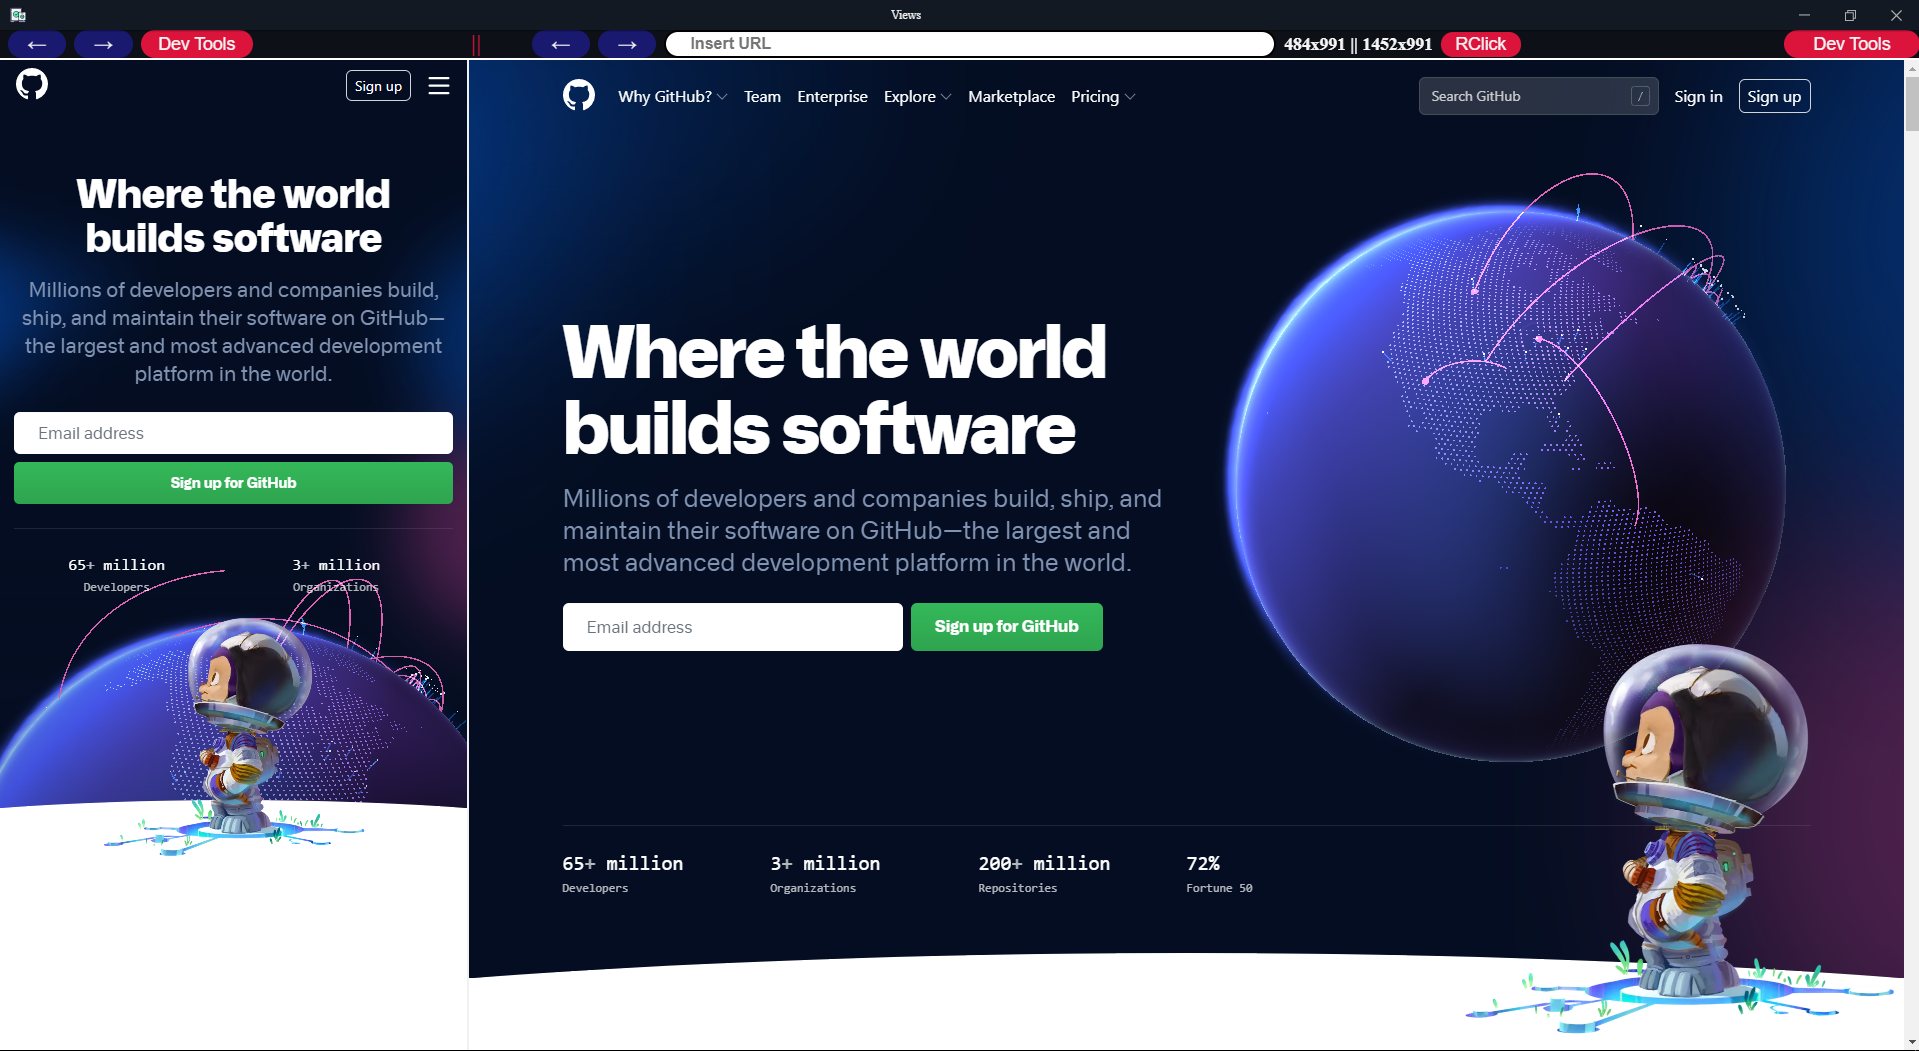
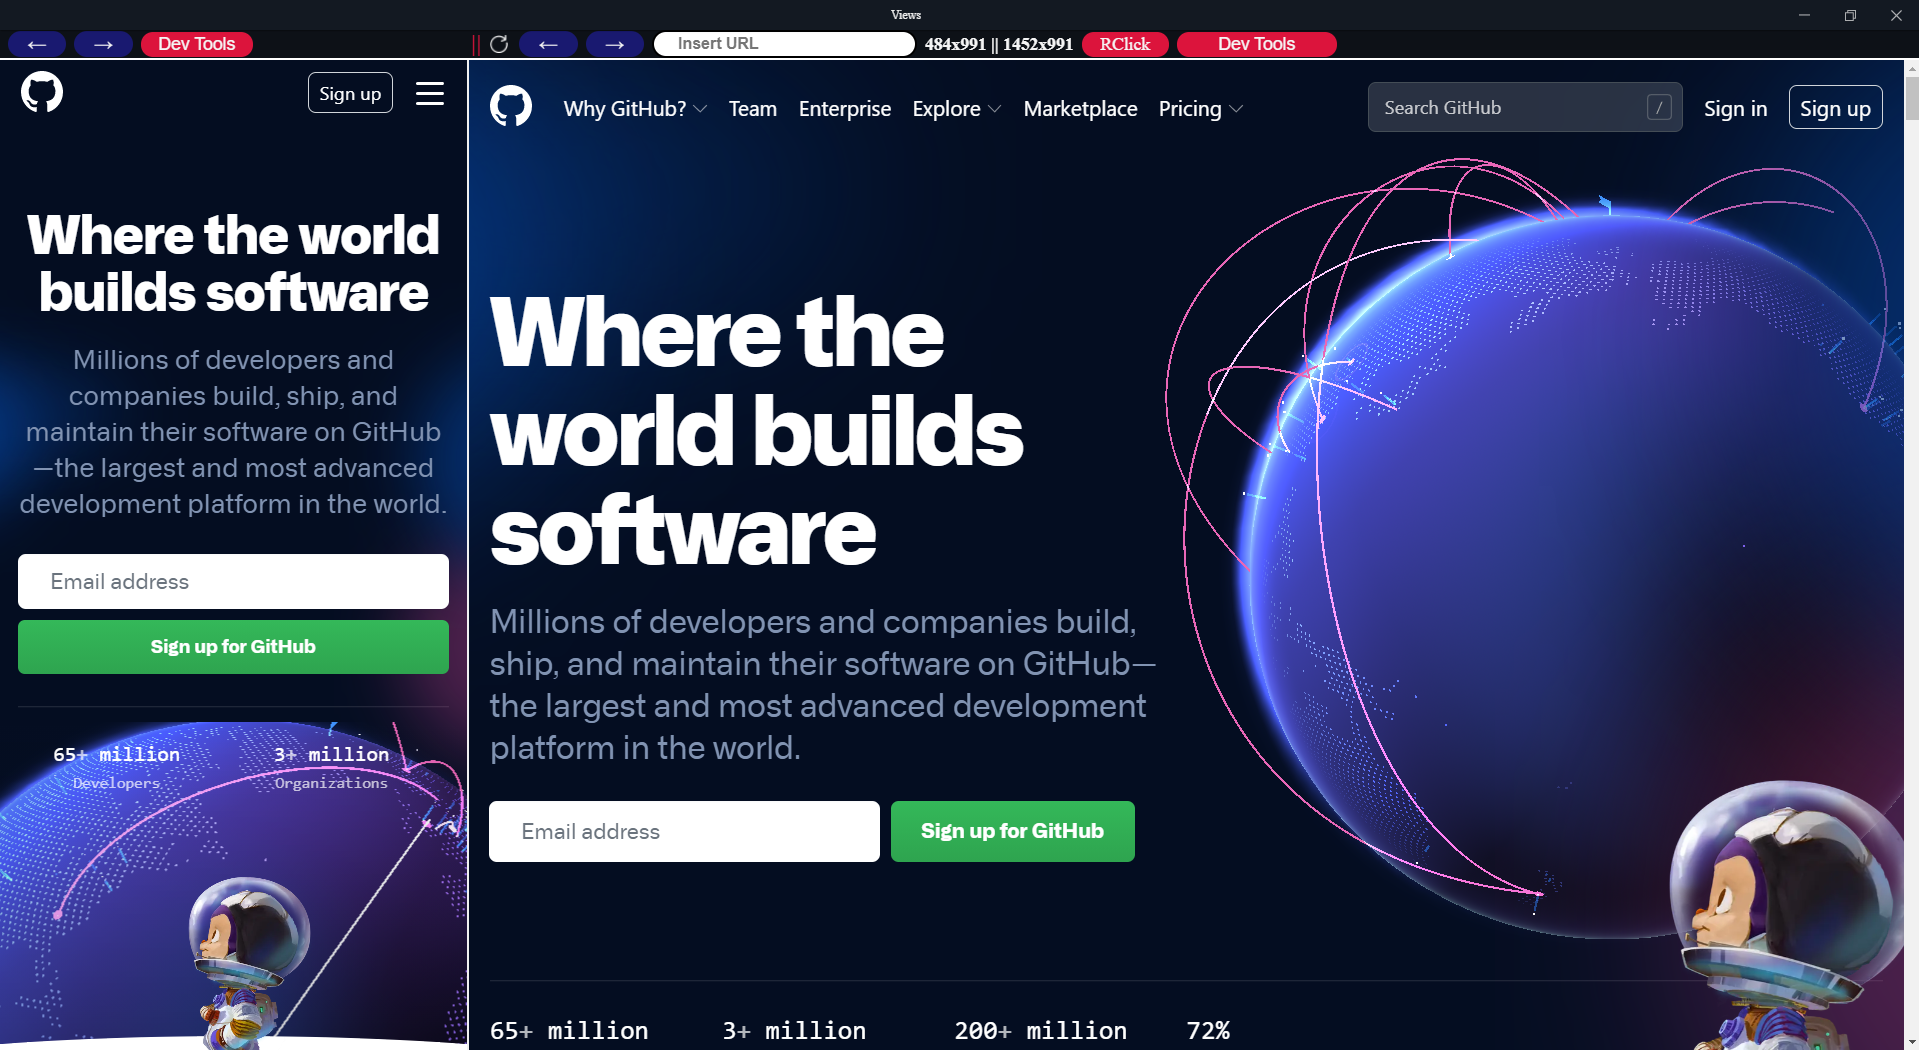
:zap: added zoom and resize

diff --git a/views/src/renderer.js b/views/src/renderer.js
@@ -14,8 +14,6 @@ const mobile_view = document.getElementById('mobile_view_block');
 const widthInfo = document.getElementById('widthInfo');
 const rightClickButton = document.getElementById('buttonRightClick');
 const refresh = document.getElementById('refresh_button');
-const zoomIn = document.getElementById('zoomIn');
-const zoomOut = document.getElementById('zoomOut');
 const slider = document.getElementById('slider');
 let mobileId = -1;
 let mainId = -1;
@@ -114,26 +112,61 @@ mobileDevTools.onclick = (event) => {
   ipcRenderer.send("mobileDevTools");
 }
 
-/* Resize bar */
+/* Resize bar && Zoom */
 var x = 0;
 var isDown = false;
+var isClicked = false;
+var pos = 0;
+var caughtValue = false
+
+slider.addEventListener('mousedown', (e) => {
+  isClicked = true;
+  if (!caughtValue) {
+    pos = e.clientX;
+    caughtValue = true
+  }
+});
 
 resize.addEventListener('mousedown', (e) => {
-  isDown = true;
+  if (isDown) { 
+    isDown = false
+  } else {
+    isDown = true;
+  }
   x = resize.offsetLeft - e.clientX;
 });
 
-document.addEventListener('mouseup', () => {
+resize.addEventListener('mouseup', () => {
   isDown = false;
+})
+
+document.addEventListener('mouseup', (e) => {
+  isDown = false;
+  isClicked = false;
+  caughtValue = false;
+  pos = e.clientX;
+  ipcRenderer.send("zoom", Number.parseFloat(slider.value))
 });
 
 document.addEventListener('mousemove', (e) => {
-  e.preventDefault();
+  // e.preventDefault();
+  event.stopPropagation();
   if (isDown && e.clientX + x - 13 <= 450 && e.clientX + x - 13 >= 235) {
     resize.style.left = (e.clientX + x -13) + 'px';
     ipcRenderer.send('resize_drag', e.clientX + x);
     main_view.style.flex = 1 -  (e.clientX + x) / window.innerWidth;
     mobile_view.style.flex = (e.clientX + x) / window.innerWidth;
+  }
+  if (isClicked) {
+    if (e.clientX - pos > 0) {
+      slider.value += 0.01;
+    }
+    if (e.clientX - pos < 0) {
+      slider.value -= 0.01;
+    }
+    if (e.clientX - pos === 0) {
+      slider.value = slider.value;
+    }
   }
 });
 
@@ -193,9 +226,3 @@ rightClickButton.addEventListener('click', (e) => {
 refresh.addEventListener('click', (e) => {
   ipcRenderer.send('refresh');
 })
-
-/* Zoom */
-slider.oninput = () => {
-  console.log(slider.value);
-  ipcRenderer.send('zoom', Number.parseFloat(slider.value))
-}

diff --git a/views/src/index.css b/views/src/index.css
@@ -17,6 +17,7 @@
   justify-content: space-evenly;
   z-index: 100;
   background-color: #0d1117;
+  user-select: none;
 }
 
 .mobile__view {
@@ -51,6 +52,12 @@
   outline: none;
 }
 
+form {
+  display: flex;
+  align-items: center;
+  justify-content: right;
+}
+
 .url__input {
   margin-left: .4rem;
   padding: .2rem 1.5rem .2rem 1.5rem;
@@ -63,10 +70,9 @@
   user-select: text;
 }
 
-form {
-  display: flex;
-  align-items: center;
-  justify-content: right;
+.url__input[type="text"] {
+  color: black;
+  font-weight: bold;
 }
 
 .url__input:active, .url__input:focus {
@@ -130,6 +136,7 @@ form {
   font-weight: bold;
   font-size: 1.5rem;
   cursor: col-resize;
+  user-select: none;
 }
 
 .menubar-menu-button {
@@ -168,42 +175,6 @@ form {
   padding: 0 .2rem 0 .4rem;
   cursor: pointer;
   filter: invert(100%);
-}
-
-.plus, .minus {
-  display: flex;
-  justify-content:center;
-  align-items: center;
-  text-align: center;
-  color: whitesmoke;
-  margin: 0 .25rem 0 .25rem;
-  padding: .2rem .25rem .2rem .25rem;
-  font-weight: bold;
-  font-size: 1.15rem;
-  cursor: pointer;
-}
-
-.plus {
-  background: var(--zoom-color);
-  border-radius: 100vw;
-}
-
-.minus {
-  background: var(--zoom-color);
-  border-radius: 100vw;
-}
-
-.zoom_in, .zoom_out {
-  object-fit: contain;
-  display:flex;
-  justify-content:center;
-  align-items: center;
-  width: 1rem;
-}
-
-.zoom_out {
-  -webkit-transform: scaleX(-1);
-  transform: scaleX(-1);
 }
 
 .slidecontainer {

diff --git a/views/src/index.html b/views/src/index.html
@@ -5,8 +5,6 @@
     <meta name="viewport" content="width=device-width, initial-scale=1" />
     <title> Views </title>
     <link rel="stylesheet" href="index.css">
-    <link href="nouislider.css" rel="stylesheet">
-    <script src="nouislider.js"></script>
   </head>
   <body>
     <div id="header_bar" class="header">
@@ -29,10 +27,8 @@
         <h3 class="info__tag" id="widthInfo"></h3>
         <div class="rightClick" id="buttonRightClick">RClick</div>
         <button class="mainDev__tools" id="mainDevTools"> Dev Tools </button>
-        <!-- <h3 id="zoomIn" class="plus"><img class="zoom_in" alt="zoomIn" src="./img/zoomIn.png"/></h3>
-        <h3 id="zoomOut" class="minus"><img class="zoom_out" alt="zoomOut" src="./img/zoomOut.png"/></h3> -->
         <div class="slidecontainer">
-          <input type="range" min="0" max="5" value="0" class="slider" id="slider" step="0.1">
+          <input type="range" min="0" max="5" value="0" class="slider" id="slider" step="0.01">
         </div>
       </div>
     </div>
